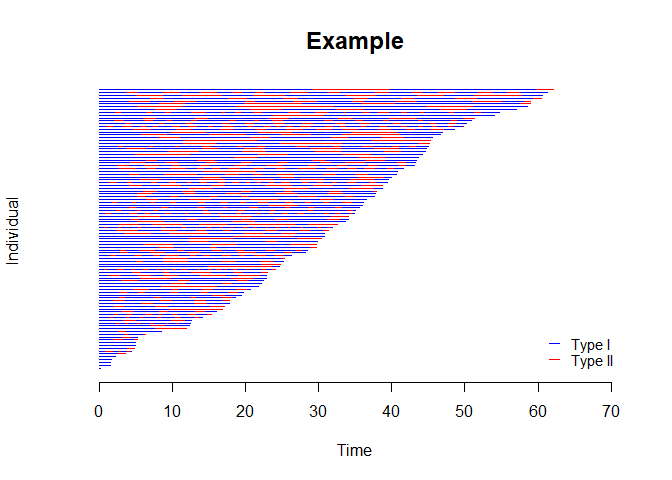
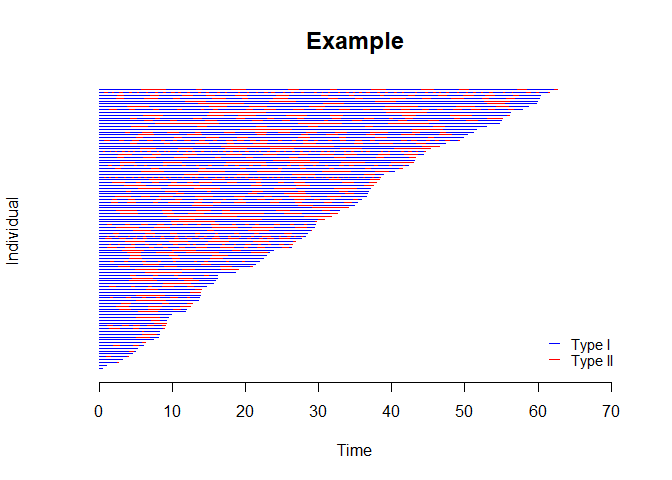
updates for new computer

Changed region(s): [[0.1562, 0.1875, 0.8125, 0.75]]

diff --git a/README.md b/README.md
@@ -45,16 +45,16 @@ This is an example using a simulated data set.
 ``` r
 # Simulate bivariate alternating recurrent event data
 library(BivRec)
-set.seed(288)
+set.seed(28)
 sim_data <- simBivRec(nsize=100, beta1=c(0.5,0.5), beta2=c(0,-0.5), tau_c=63, set=1.1)
 head(sim_data)
-#>   id epi      xij       yij        ci d1 d2 a1         a2
-#> 1  1   1 1.886882 1.4385977  5.218676  1  1  0 0.01429619
-#> 2  1   2 1.459066 0.4341303  5.218676  1  0  0 0.01429619
-#> 3  2   1 2.812824 0.7359517 18.667124  1  1  1 0.74366631
-#> 4  2   2 3.957610 1.0279152 18.667124  1  1  1 0.74366631
-#> 5  2   3 3.966836 0.8669458 18.667124  1  1  1 0.74366631
-#> 6  2   4 3.489983 1.4055131 18.667124  1  1  1 0.74366631
+#>   id epi      xij      yij       ci d1 d2 a1        a2
+#> 1  1   1 5.396514 2.649410 11.76916  1  1  0 0.7455188
+#> 2  1   2 3.723235 0.000000 11.76916  0  0  0 0.7455188
+#> 3  2   1 5.648637 2.247070 45.31703  1  1  0 0.3344112
+#> 4  2   2 2.949107 2.032798 45.31703  1  1  0 0.3344112
+#> 5  2   3 4.437588 2.936018 45.31703  1  1  0 0.3344112
+#> 6  2   4 3.114917 3.337000 45.31703  1  1  0 0.3344112
 
 # Create a bivrecSurv object
 bivrec_object <- with(sim_data, bivrecSurv(id, epi, xij, yij, d1, d2))
@@ -64,8 +64,7 @@ plot(bivrec_object, main="Example", type = c("Type I", "Type II"))
 
 ![](man/figures/README-BivRecExample-1.png)<!-- -->
 
-Nonparametric
-Analysis
+Nonparametric Analysis
 
 ``` r
 # Apply the nonparametric method of Huang and Wang (2005) and visualize joint, marginal and conditional results
@@ -79,38 +78,38 @@ npresult <- bivrecNP(response = bivrec_object, ai=1,
 head(npresult)
 #> 
 #> Joint CDF:
-#>    x y Joint Probability         SE  Lower .99 Upper .99
-#> 1 2 1         0.0908710 0.02354341 0.03022720 0.1515148
-#> 2 2 2         0.1481150 0.03075241 0.06890205 0.2273279
-#> 3 2 3         0.1579445 0.03134974 0.07719294 0.2386961
-#> 4 2 4         0.1579445 0.03134974 0.07719294 0.2386961
-#> 5 2 5         0.1607501 0.03132463 0.08006321 0.2414370
-#> 6 2 6         0.1607501 0.03132463 0.08006321 0.2414370
+#>    x y Joint Probability         SE Lower .99 Upper .99
+#> 1 2 1         0.1598075 0.03321294 0.0742566 0.2453583
+#> 2 2 2         0.2097532 0.03725269 0.1137967 0.3057098
+#> 3 2 3         0.2133441 0.03713210 0.1176981 0.3089900
+#> 4 2 4         0.2154721 0.03706672 0.1199946 0.3109496
+#> 5 2 5         0.2181802 0.03700250 0.1228681 0.3134923
+#> 6 2 6         0.2181802 0.03700250 0.1228681 0.3134923
 #> 
 #> Marginal Survival:
 #>         Time Marginal Survival           SE Lower .99 Upper .99
-#> 1 0.5177089         0.9993266 6.763374e-05 0.9991524 0.9995008
-#> 2 0.5743254         0.9986532 6.729472e-04 0.9969198 1.0000000
-#> 3 0.5776458         0.9979798 1.340786e-03 0.9945262 1.0000000
-#> 4 0.6523116         0.9974988 2.009200e-03 0.9923234 1.0000000
-#> 5 0.7016157         0.9941318 2.087441e-03 0.9887549 0.9995087
-#> 6 0.7059578         0.9936508 3.901686e-03 0.9836007 1.0000000
+#> 1 0.3120105         0.9997561 0.0000243843 0.9996933 0.9998189
+#> 2 0.3408594         0.9995122 0.0002438430 0.9988841 1.0000000
+#> 3 0.3769168         0.9992683 0.0004858536 0.9980168 1.0000000
+#> 4 0.3793933         0.9990302 0.0007282511 0.9971543 1.0000000
+#> 5 0.3859942         0.9987863 0.0007635383 0.9968196 1.0000000
+#> 6 0.3878224         0.9985424 0.0009969369 0.9959745 1.0000000
 #> 
 #> Conditional CDF:
 #>      Time Conditional Probability  Bootstrap SE Bootstrap Lower .99
-#> 1 0.0000                  0.0000        0.0000                   0
-#> 2 0.0669                  0.0000        0.0000                   0
-#> 3 0.1337                  0.0000        0.0000                   0
-#> 4 0.2006                  0.0013        0.0012                   0
-#> 5 0.2675                  0.0066        0.0049                   0
-#> 6 0.3344                  0.0155        0.0085                   0
+#> 1 0.0000                  0.0000        0.0000                0.00
+#> 2 0.0776                  0.0000        0.0000                0.00
+#> 3 0.1551                  0.0003        0.0003                0.00
+#> 4 0.2327                  0.0084        0.0047                0.00
+#> 5 0.3103                  0.0259        0.0114                0.00
+#> 6 0.3878                  0.0485        0.0184                0.01
 #>   Bootstrap Upper .99
 #> 1                0.00
 #> 2                0.00
 #> 3                0.00
-#> 4                0.00
-#> 5                0.02
-#> 6                0.04
+#> 4                0.02
+#> 5                0.06
+#> 6                0.10
 plot(npresult)
 ```
 
@@ -130,8 +129,7 @@ plot(npresult)
 # dev.off()
 ```
 
-Semiparametric Regression
-Analysis
+Semiparametric Regression Analysis
 
 ``` r
 #Explore how the response changes by levels of a categorical covariate using a plot. 
@@ -164,20 +162,20 @@ summary(lee_fit)
 #> 100
 #> 
 #> Coefficients:
-#>         Estimates     SE        z  Pr(>|z|)   
-#> xij a1   0.22050  0.17485  1.2611  0.10364   
-#> xij a2   0.59174  0.30020  1.9711  0.02435 * 
-#> yij a1  -0.59171  0.22379 -2.6441  0.00410 **
-#> yij a2  -0.44510  0.51001 -0.8727  0.19141   
+#>         Estimates      SE        z  Pr(>|z|)    
+#> xij a1  0.686004  0.171881  3.9912    3e-05 ***
+#> xij a2  0.293041  0.304425  0.9626  0.16787    
+#> yij a1 -0.057268  0.294032 -0.1948  0.42279    
+#> yij a2 -0.911427  0.480674 -1.8961  0.02897 *  
 #> ---
 #> Signif. codes:  0 '***' 0.001 '**' 0.01 '*' 0.05 '.' 0.1 ' ' 1
 #> 
 #> exp(coefficients):
 #>         exp(coeff) Lower .95 Upper .95
-#> xij a1    1.24670   0.88497    1.7563
-#> xij a2    1.80712   1.00336    3.2548
-#> yij a1    0.55338   0.35689    0.8580
-#> yij a2    0.64076   0.23582    1.7411
+#> xij a1    1.98576   1.41782    2.7812
+#> xij a2    1.34050   0.73814    2.4344
+#> yij a1    0.94434   0.53070    1.6804
+#> yij a2    0.40195   0.15668    1.0312
 
 # To apply Chang (2004) method use method="Chang".
 # chang_fit <- bivrecReg(bivrecSurv(id, epi, xij, yij, d1, d2) ~ a1 + a2,
